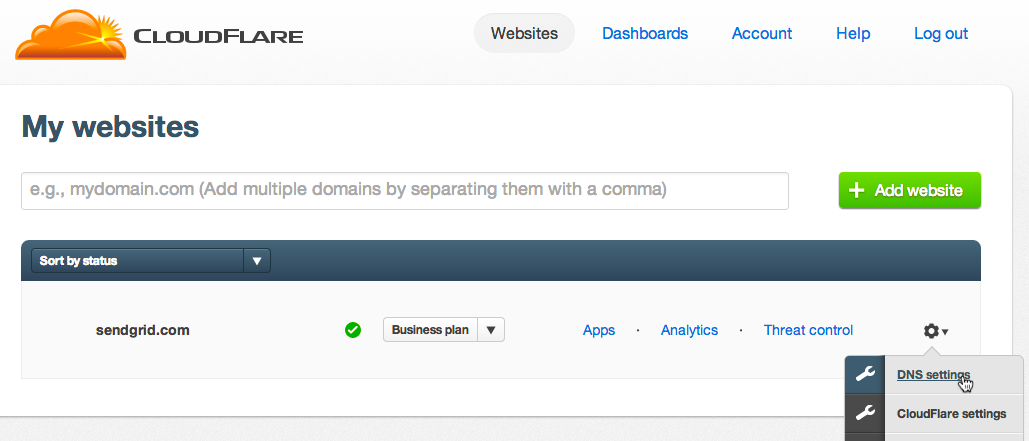
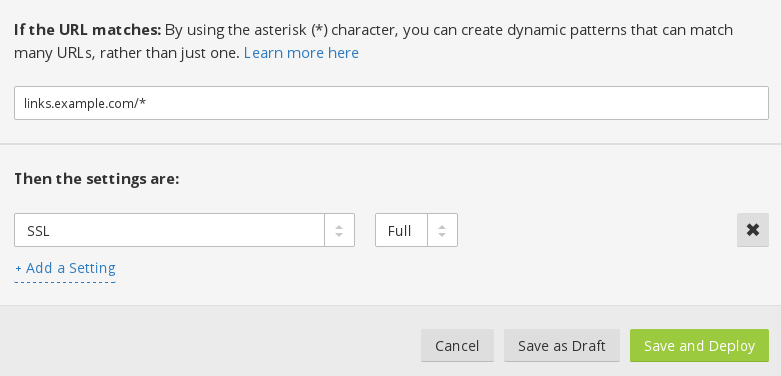
update CloudFlare CDN configuration steps

diff --git a/source/Classroom/Build/Add_Content/content_delivery_networks.md b/source/Classroom/Build/Add_Content/content_delivery_networks.md
@@ -10,53 +10,37 @@ navigation:
 
 Content Delivery Networks are a great mechanism that you can use to serve up content very quickly and easily across multiple mediums as well as handle security certificates for you.
 
-We suggest [CloudFlare]({{root_url}}/User_Guide/Setting_Up_Your_Server/content_delivery_networks.html#-Using-CloudFlare),  [Fastly]({{root_url}}/User_Guide/Setting_Up_Your_Server/content_delivery_networks.html#-Using-Fastly), or [KeyCDN]({{root_url}}/User_Guide/Setting_Up_Your_Server/content_delivery_networks.html#-Using-KeyCDN) when using Content Delivery Networks with SendGrid.
+We suggest [CloudFlare]({{root_url}}/User_Guide/Setting_Up_Your_Server/content_delivery_networks.html#-Using-CloudFlare), [Fastly]({{root_url}}/User_Guide/Setting_Up_Your_Server/content_delivery_networks.html#-Using-Fastly), or [KeyCDN]({{root_url}}/User_Guide/Setting_Up_Your_Server/content_delivery_networks.html#-Using-KeyCDN) when using Content Delivery Networks with SendGrid.
 
 {% anchor h2 %}
 Using CloudFlare
 {% endanchor %}
 
-{% anchor h3 %}
-Creating a New CloudFlare Account
-{% endanchor %}
+The following instructions assume you already have a CloudFlare account made, using either a [Full DNS setup](https://support.cloudflare.com/hc/en-us/articles/205195708) or a [CNAME setup](https://support.cloudflare.com/hc/en-us/articles/200168706). You can compare the two different setups [here](https://support.cloudflare.com/hc/en-us/articles/203685674). Note that a CNAME setup is only available to Business or Enterprise level CloudFlare plans.
 
-If you are not already a CloudFlare customer, you have two options for setting up your account. You can follow their Sign Up process, which requires that you make CloudFlare the authoritative provider for your DNS, or you can choose to perform a "CNAME configuration".
+Begin by logging into your CloudFlare account, and navigating to the DNS settings for your domain.
 
-Unless you are comfortable changing your authoritative DNS provider, please follow the instructions for [getting CloudFlare up and running using a CNAME based configuration](https://support.cloudflare.com/hc/en-us/articles/200168706-How-do-I-do-CNAME-setup-).
+![CloudFlare DNS Settings]({{root_url}}/images/cloudflare1.png)
 
-{% anchor h3 %}
-Configuring CloudFlare
-{% endanchor %}
+Add a new CNAME entry that points your configured Email Links WhiteLabel domain to sendgrid.net.
 
-First, login to your CloudFlare account.
+![CloudFlare DNS Addition]({{root_url}}/images/cloudflare2.png)
 
-Click on the SETTINGS button on the Dashboard.
+Once the record is created, click on the cloud icon under the Status column to turn it orange and enable HTTP proxy.
 
-![CloudFlare Dashboard]({{root_url}}/images/cloudflare1.png)
+![CloudFlare DNS HTTP proxy]({{root_url}}/images/cloudflare3.png)
 
-Now click on CLOUDFLARE SETTINGS.
+Next, navigate to the Page Rules settings for your domain. You will need to create a Page Rule for your Email Links Whitelabel domain that sets SSL to Full. This is necessary due to how [CloudFlare validates the certificate on the origin](https://support.cloudflare.com/hc/en-us/articles/200721975). You can find more information on the different SSL options [here](https://support.cloudflare.com/hc/en-us/articles/200170416).
 
-![CloudFlare Settings]({{root_url}}/images/cloudflare2.png)
+![CloudFlare Page Rules Addition]({{root_url}}/images/cloudflare4.png)
 
-Ensure that SSL mode is set to "Full SSL"
+Ensure that the Page Rule is On.
 
-![CloudFlare SSL]({{root_url}}/images/cloudflare3.png)
+![CloudFlare Page Rules Verification]({{root_url}}/images/cloudflare5.png)
 
-{% info %}
-SendGrid is working with CloudFlare to resolve an issue that precludes the use of "Strict SSL". We recognize that "Strict SSL" is optimal, but unfortunately it can only be enabled by requesting a special configuration modification from CloudFlare. If your threat model requires the use of "Strict SSL", let us know and we will ask CloudFlare to enable the workaround for you.
-{% endinfo %}
+If you are using a CNAME setup, you will also need to change DNS to point to the CloudFlare CNAME you created.
 
-Now, go back to WEBSITES, and click on DNS SETTINGS.
-
-![CloudFlare DNS]({{root_url}}/images/cloudflare4.png)
-
-Add a new CNAME entry that points your desired Email Links WhiteLabel domain to $customer.ct.sendgrid.net, e.g.:
-
-![CloudFlare CNAME]({{root_url}}/images/cloudflare5.png)
-
-Now click on I AM DONE WITH CNAME SETUP. Once done; contact SendGrid support,
-and they'll validate the CDN settings and enable SSL click and open
-tracking.
+Once all of this is done, you will need to contact [SendGrid support](https://support.sendgrid.com/) and request that SSL click and open tracking be enabled on your account. They will then verify the configuration and enable the setting on your account.
 
 {% anchor h2 %}
 Using Fastly
